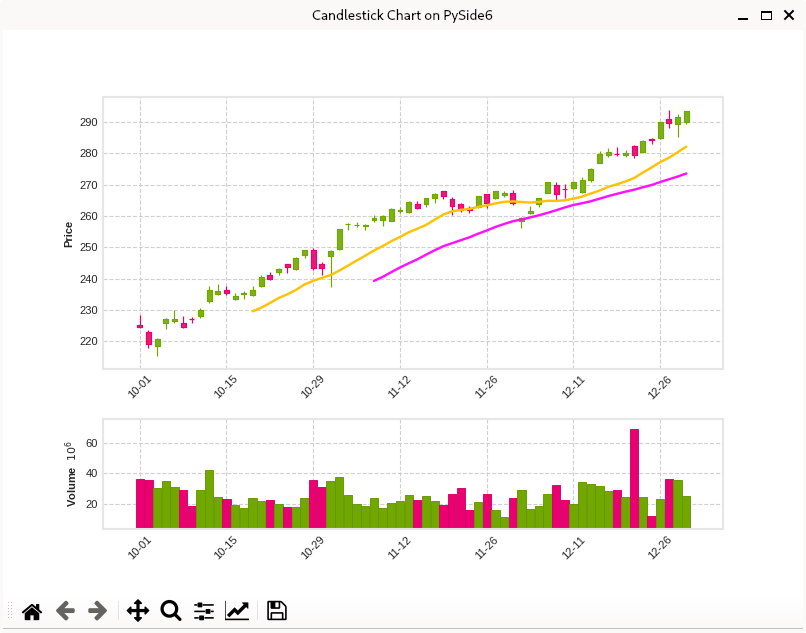
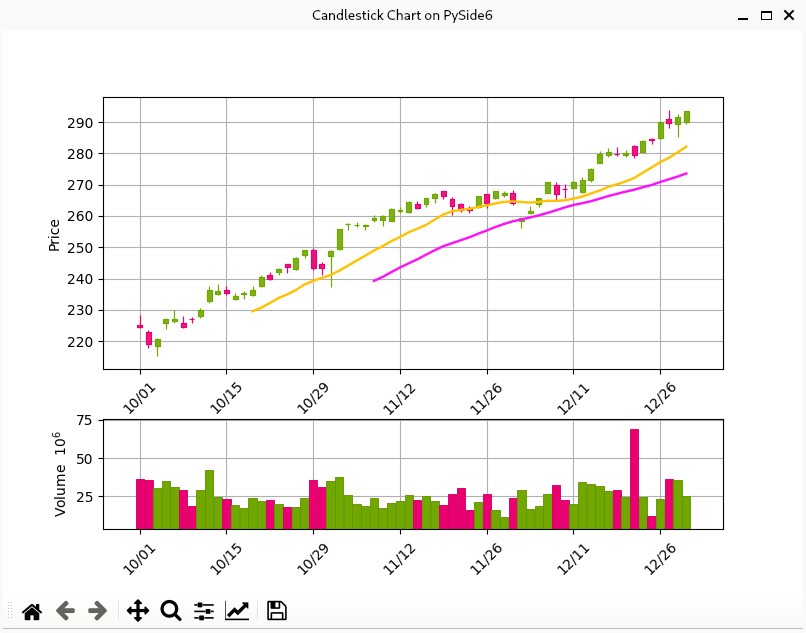
update

diff --git a/qt_mpl_finance.py b/qt_mpl_finance.py
@@ -25,27 +25,29 @@ class Example(QMainWindow):
         self.initUI()
         self.resize(800, 600)
         self.setWindowTitle('Candlestick Chart on PySide6')
-        self.show()
 
     def initUI(self):
         # sample dataset
         filename = 'candlestick_sample_data.csv'
         df = pd.read_csv(filename, index_col=0, parse_dates=True)
 
-        sty = mpf.make_mpf_style(base_mpf_style='binance', rc={'font.size': 8})
-        fig = mpf.figure(dpi=100, style=sty)
+        fig = Figure()
         grid = plt.GridSpec(3, 3, wspace=0.45, hspace=0.45)
+
         ax1 = fig.add_subplot(grid[0:2, 0:])
         ax2 = fig.add_subplot(grid[2, 0:], sharex=ax1)
         mpf.plot(
             df,
+            style='binance',
             type='candle',
             mav=(14, 28),
             show_nontrading=False,
-            datetime_format='%m-%d',
+            datetime_format='%m/%d',
             ax=ax1,
             volume=ax2
         )
+        ax1.grid()
+        ax2.grid()
         canvas = FigureCanvas(fig)
 
         self.setCentralWidget(canvas)
@@ -58,6 +60,7 @@ class Example(QMainWindow):
 def main():
     app = QApplication(sys.argv)
     ex = Example()
+    ex.show()
     sys.exit(app.exec())
 
 
